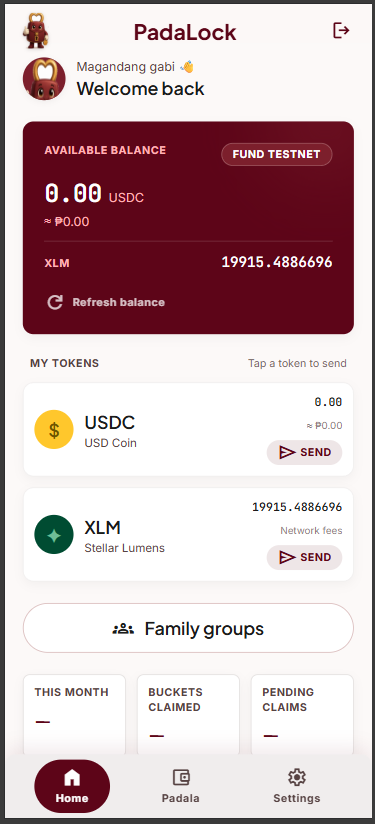
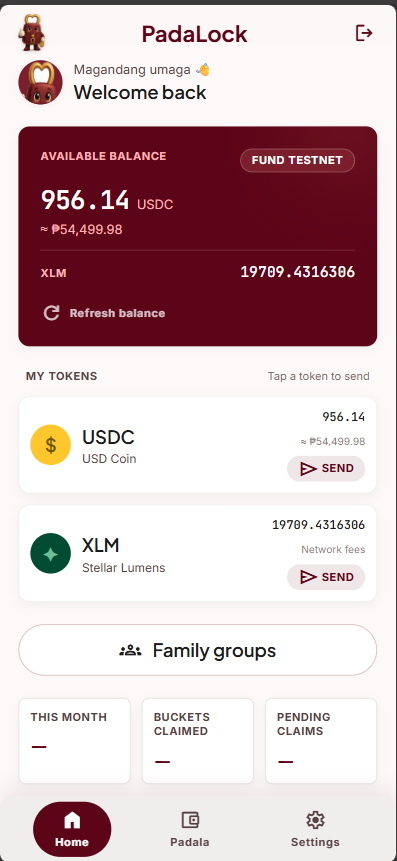
docs: add feedback and analytics proof

diff --git a/packages/feedback-graph/src/cluster.ts b/packages/feedback-graph/src/cluster.ts
@@ -63,6 +63,16 @@ function clusterRows(rows: FeedbackRow[], threshold: number): Cluster[] {
   return clusters;
 }
 
+function fallbackLabel(samples: string[]): string {
+  const text = samples.join(' ').toLowerCase();
+  if (/xlm|peso|conversion|stablecoin/.test(text)) return 'Currency Display';
+  if (/popup|success|successful|effect/.test(text)) return 'Success Feedback';
+  if (/claim|receiver|track/.test(text)) return 'Claim Experience';
+  if (/easy|helpful|navigate|flow|quality|use/.test(text)) return 'Ease Of Use';
+  if (/saving|game|add/.test(text)) return 'Feature Requests';
+  return 'General Feedback';
+}
+
 /** Ask Gemini for a short human label given sample messages in a cluster. */
 async function labelCluster(samples: string[]): Promise<string> {
   const prompt =
@@ -70,8 +80,12 @@ async function labelCluster(samples: string[]): Promise<string> {
     `Reply with a SHORT label of 2-4 words, no punctuation, Title Case. ` +
     `Messages:\n` +
     samples.map((s) => `- ${s}`).join('\n');
-  const raw = await generate(prompt);
-  return raw.split('\n')[0].replace(/[."]/g, '').slice(0, 40) || 'Misc';
+  try {
+    const raw = await generate(prompt);
+    return raw.split('\n')[0].replace(/[."]/g, '').slice(0, 40) || fallbackLabel(samples);
+  } catch {
+    return fallbackLabel(samples);
+  }
 }
 
 /** Cluster all stored feedback and produce labelled themes + a text summary. */
@@ -143,5 +157,14 @@ async function summarize(
     `${total} total messages. ${ratingLine}Themes:\n${lines}\n\n` +
     `Write 2-3 sentences: overall sentiment, top pain points, and one ` +
     `concrete suggestion. Plain text, no markdown headers.`;
-  return generate(prompt);
+  try {
+    return await generate(prompt);
+  } catch {
+    const top = themes
+      .slice(0, 3)
+      .map((t) => `${t.label} (${t.count})`)
+      .join(', ');
+    const rating = avgRating != null ? ` Average rating is ${avgRating.toFixed(1)}/5.` : '';
+    return `Collected ${total} feedback message(s).${rating} Top themes: ${top || 'none yet'}. Users mostly praise ease of use, while next fixes should focus on clearer confirmations and currency display polish.`;
+  }
 }

diff --git a/apps/web/src/lib/feedback-graph.test.ts b/apps/web/src/lib/feedback-graph.test.ts
@@ -1,0 +1,16 @@
+import { describe, expect, it } from 'vitest';
+import { feedbackGraphIngestUrl } from './feedback-graph';
+
+describe('feedbackGraphIngestUrl', () => {
+  it('targets the Vercel API route for feedback-graph ingest', () => {
+    expect(feedbackGraphIngestUrl('https://feedback.example.com')).toBe(
+      'https://feedback.example.com/api/ingest',
+    );
+  });
+
+  it('handles trailing slashes in FEEDBACK_GRAPH_URL', () => {
+    expect(feedbackGraphIngestUrl('https://feedback.example.com///')).toBe(
+      'https://feedback.example.com/api/ingest',
+    );
+  });
+});

diff --git a/apps/web/src/app/api/feedback/route.ts b/apps/web/src/app/api/feedback/route.ts
@@ -1,4 +1,5 @@
 import { NextResponse } from "next/server";
+import { feedbackGraphIngestUrl } from "@/lib/feedback-graph";
 
 /**
  * Collects basic user feedback for the Level 4 submission.
@@ -85,7 +86,7 @@ export async function POST(req: Request) {
   const graphUrl = process.env.FEEDBACK_GRAPH_URL;
   if (graphUrl) {
     try {
-      await fetch(`${graphUrl.replace(/\/$/, "")}/ingest`, {
+      await fetch(feedbackGraphIngestUrl(graphUrl), {
         method: "POST",
         headers: {
           "Content-Type": "application/json",

diff --git a/packages/feedback-graph/src/register.ts b/packages/feedback-graph/src/register.ts
@@ -1,5 +1,5 @@
 /**
- * Register the /feedback and /insights slash commands with Discord.
+ * Register the /feedback, /insights, and /export slash commands with Discord.
  * Run once (and again whenever command defs change):  npm run register
  *
  * Uses guild-scoped registration when DISCORD_GUILD_ID is set (updates

diff --git a/apps/web/src/lib/feedback-graph.ts b/apps/web/src/lib/feedback-graph.ts
@@ -1,0 +1,4 @@
+export function feedbackGraphIngestUrl(baseUrl: string): string {
+  const clean = baseUrl.trim().replace(/\/+$/, '');
+  return `${clean}/api/ingest`;
+}

diff --git a/README.md b/README.md
@@ -16,7 +16,7 @@
 
 **[🚀 Live demo](https://padalock.vercel.app)** · **[🎬 Demo video](./docs/demo-video/padalock-demo.mp4)** · **[🔎 Contract on Stellar Expert](https://stellar.expert/explorer/testnet/contract/CB62IOP52GFYM7FFKHFVJLINQJJBHFWIVFGACGZ3MSMPELSTBG7RF5YE)**
 
-<sub>StellarX Philippines · Track 1 — Remittance & Cross-Border · Risein Orange Belt (Level 3)</sub>
+<sub>StellarX Philippines - Track 1 - Remittance & Cross-Border</sub>
 
 </div>
 
@@ -58,7 +58,6 @@
 [Testing & CI](#-testing--ci) ·
 [Deployment](#-deployment) ·
 [Routes](#-routes) ·
-[Compliance](#-risein-compliance) ·
 [Roadmap](#-mainnet-roadmap)
 
 ---
@@ -109,7 +108,19 @@ Filipino OFWs send **~$36B/yr** home. The recurring pain: the sender has **no co
 
 | CI/CD — all checks passing | Contract & tx history (Stellar Expert) |
 |:---:|:---:|
-| <img src="./docs/screenshots/ci-pipeline.png" alt="CI pipeline — all checks passed" width="440" /> | <img src="./docs/screenshots/stellar-contract.png" alt="PadaLock contract on Stellar Expert" width="360" /> |
+| <img src="./docs/screenshots/ci-pipeline.png" alt="CI pipeline all checks passed" width="440" /> | <img src="./docs/screenshots/contracts/USDC%20PadaLock%20contract.png" alt="USDC PadaLock contract on Stellar Expert" width="260" /> <img src="./docs/screenshots/contracts/XLM%20PadaLock%20contract.png" alt="XLM PadaLock contract on Stellar Expert" width="260" /> |
+
+### Vercel analytics proof
+
+| Live traffic and monitoring |
+|:---:|
+| <img src="./docs/screenshots/vercel-analytics/padalock-analytics.png" alt="Vercel Analytics for PadaLock" width="760" /> |
+
+### Discord feedback proof
+
+| Feedback collection, `/insights` summary, and CSV export |
+|:---:|
+| <img src="./docs/screenshots/discord-feedback-proof.png" alt="Discord feedback collection, summary, and CSV export proof" width="760" /> |
 
 ### ✅ Tests
 
@@ -162,6 +173,7 @@ Filipino OFWs send **~$36B/yr** home. The recurring pain: the sender has **no co
 - **🪙 Dashboard asset switcher** — headline your balance in USDC or XLM; the choice is remembered.
 - **🔗 Deep-link + QR claim share** — send-success shows a shareable claim link, QR, and native Share sheet for low-tech family.
 - **👛 Hybrid wallet** — built-in self-custodial wallet (BIP-39 + Argon2 + AES-GCM) **or** external via Stellar Wallets Kit (Freighter, xBull, Albedo, Lobstr, Ledger).
+- **Discord feedback loop** - in-app feedback posts to Discord and to `@padalock/feedback-graph`; slash commands generate `/insights` summaries and private `/export` CSV files for proof and iteration.
 
 ---
 
@@ -171,6 +183,7 @@ Filipino OFWs send **~$36B/yr** home. The recurring pain: the sender has **no co
 contracts/pada-lock/   Soroban contract (Rust)
 apps/web/              Next.js 16 self-custodial PWA (sender + receiver)
 packages/sdk/          shared TypeScript SDK (RPC, tx builders, polling)
+packages/feedback-graph/ Discord slash commands, feedback ingest, Gemini summaries, CSV export
 docs/                  deploy guide, demo script, testnet state, screenshots
 plan.md                phased build plan
 ```
@@ -183,6 +196,7 @@ plan.md                phased build plan
 - **Soroban** Rust SDK (`soroban-sdk` 25)
 - **Next.js 16** App Router · React 19 · Tailwind · PWA, mobile-first
 - **Self-custodial wallet** — BIP-39 mnemonic → Argon2id → AES-GCM
+- **Discord + Gemini feedback insights** - Discord Interactions API, Neon Postgres, Gemini embeddings/summaries, `/insights`, and CSV export
 - **npm workspaces** monorepo · typed SDK boundary · simulate-before-sign · finality polling
 
 ---
@@ -232,6 +246,12 @@ two parallel jobs: **contract** (`cargo test`) and **web** (Vitest across worksp
   | `NEXT_PUBLIC_XLM_SAC_TESTNET` | `CDLZFC3SYJYDZT7K67VZ75HPJVIEUVNIXF47ZG2FB2RMQQVU2HHGCYSC` |
   | `NEXT_PUBLIC_USDC_ISSUER_TESTNET` | `GAZ5YSMH4Z2VXLLVR7FE7RENVBSDLU5U4PCJZYHRFZSBANA765TZEUQE` |
   | `NEXT_PUBLIC_SEP24_ANCHOR_DOMAIN` | `testanchor.stellar.org` |
+  | `FEEDBACK_WEBHOOK_URL` | Discord incoming webhook for visible feedback collection |
+  | `FEEDBACK_GRAPH_URL` | `https://padalock-feedback-graph.vercel.app` |
+  | `INGEST_SECRET` | Shared secret used by the web app and feedback graph ingest API |
+
+- **Feedback graph (Vercel)** - `packages/feedback-graph`; deploys `https://padalock-feedback-graph.vercel.app` with `/api/interactions`, `/api/ingest`, `/api/health`, and `/api/export`.
+  Discord's **Interactions Endpoint URL** points to `/api/interactions`. `/feedback` logs Discord-native feedback, `/insights` clusters all stored rows into a summary + chart, and `/export` returns a private CSV file.
 
 ---
 
@@ -245,28 +265,6 @@ two parallel jobs: **contract** (`cargo test`) and **web** (Vitest across worksp
 | `/send` | OFW splits padala across buckets |
 | `/claim/[id]` | Family member claims per bucket |
 | `/padala/[id]` | Sender transparency: who claimed what, when |
-
----
-
-## 🏅 Risein compliance
-
-<details>
-<summary><strong>Orange Belt (Level 3) — Advanced contracts + production-ready dApp</strong></summary>
-
-| Requirement | Where in PadaLock |
-|---|---|
-| Advanced smart contract | `create_padala` / `claim` / `create_recurring` / `execute_due` / `cancel_recurring` / `reclaim` / `get_reputation` — escrow, multi-recipient, recurring, sender reclaim on expiry, TTL-durable storage, on-chain reputation. |
-| Inter-contract communication | Cross-contract calls to the **USDC SAC** (`transfer` / `balance`) to move escrowed funds to merchants. |
-| Event streaming & real-time updates | Contract emits an event per bucket on create/claim; SDK reads via RPC `getEvents` (`packages/sdk/src/read.ts`); `/padala/[id]` renders the live claim ledger. |
-| CI/CD pipeline | [`.github/workflows/ci.yml`](./.github/workflows/ci.yml) — `cargo test` + Vitest + `next build` on every push/PR. |
-| Contract deployment workflow | [`docs/deploy.md`](./docs/deploy.md) — build, deploy, seed merchants, capture IDs. |
-| Mobile responsive frontend | Mobile-first PWA (Tailwind), bottom nav, install prompt. |
-| Error handling & loading states | Simulation guards, `pollFinality` (never trusts `sendTransaction`), pending spinners, success/error badges. |
-| Tests (contract + frontend) | 16 `cargo test` + 20 Vitest = **36 passing**. |
-| Production architecture | npm-workspace monorepo, typed SDK boundary, env-driven config, simulate-before-sign, finality polling. |
-| Documentation & demo | This README + [`docs/`](./docs) + demo video. |
-
-</details>
 
 ---
 

diff --git a/docs/pending-todo.md b/docs/pending-todo.md
@@ -1,0 +1,71 @@
+# PadaLock — Pending TODO (Level 4)
+
+> Living checklist of what's left. Updated 2026-07-04.
+> ✅ done · ⏳ pending · 🔴 blocker for submission · 👤 needs YOU · 🤖 Claude can do
+
+---
+
+## ✅ Done (don't redo)
+- Production MVP + stable frontend/contract architecture
+- Contract redeployed (reclaim + TTL): USDC `CB62IOP5…`, XLM `CC6LNV5T…`, 16 merchants ×2
+- Contract tests 21/21; on-chain smoke test (create/claim/restricted/reputation/reclaim-gate)
+- Browser smoke test (asset switcher, new-contract wiring, create_padala sim, error states)
+- Analytics (Vercel Web Analytics + Speed Insights) wired + enabled
+- Feedback widget + `/api/feedback` → Discord webhook (verified delivering)
+- Dashboard asset switcher (USDC/XLM headline, persisted)
+- Send-padala button fix on My Padala
+- All docs updated to new contract IDs + new features
+- 15+ commits (per-file, no co-author) — repo public
+- Live demo (padalock.vercel.app), demo video, product + mobile screenshots
+
+---
+
+## ⏳ Pending — submission blockers
+
+### 🔴 G3 — 10+ wallet on-chain interaction proof  👤+🤖
+- Must be on the **NEW** contract (old padalas are on retired contract).
+- Options: seed script (QA, on-chain tx from N wallets) **or** real users.
+- Capture per wallet: pubkey + tx hash → Stellar Expert link + timestamp → `docs/users/` (local, untracked).
+- Deliverable: proof table with ≥10 distinct wallets.
+
+### 🔴 G4 — Analytics / monitoring screenshot  👤
+- Vercel Analytics still shows "Get Started" → needs **real browser visits** (curl/seed don't count).
+- Action: open padalock.vercel.app in browser (phone + laptop), click ~5 pages, disable ad-blocker, wait ~30s.
+- Then screenshot Analytics + Speed Insights dashboards → `docs/screenshots/analytics.png`.
+
+### 🔴 G5 — Feedback summary  👤→🤖
+- Real feedback now landing in Discord "Feedback Hook" channel.
+- Action: YOU paste the real responses (ratings + text) → Claude writes `docs/feedback-summary.md`
+  (# responses, avg rating, top likes, top requests, 2–3 verbatim quotes, what to change next).
+
+### 🟡 G6 — Loading / error-state polish  🤖
+- Smoke test showed error states already surface (e.g. "Unsupported address type").
+- Remaining: audit wallet-create / fund / send / claim for spinner + disabled-on-submit + retry.
+
+### 🟡 G7 — Submission packaging  🤖
+- Create `docs/level-4-submission.md` with every checklist item + links:
+  repo · README · commit count · live demo · contract addresses (+Expert) ·
+  screenshots (UI, mobile, analytics) · demo video · 10-wallet proof · feedback summary.
+
+---
+
+## 👤 Manual tasks (only you can do)
+- [ ] Delete Claude's **test messages** from Discord "Feedback Hook" channel (5 total: 3 setup + 2 retests) so summary is clean.
+- [ ] Generate real browser traffic for G4 analytics.
+- [ ] Recruit/collect the 10 wallet interactions (or approve the seed script).
+- [ ] Paste real Discord feedback for G5.
+
+---
+
+## 🧊 Deferred / optional (not required for Level 4)
+- **Contract Option A — per-padala token**: unify USDC+XLM into one multi-asset contract (kills two-instance split + `?asset=` fragility). Skipped for now; two-instance setup works.
+- **Reclaim live demo**: `reclaim` visible card only appears after 30-day expiry — can't demo live; unit-tested + on-chain gate (#15) verified.
+- Sentry / richer error monitoring (Vercel logs + client `track('client_error')` is the lightweight baseline).
+
+---
+
+## Quick reference
+- Live: https://padalock.vercel.app
+- Contracts: USDC `CB62IOP52GFYM7FFKHFVJLINQJJBHFWIVFGACGZ3MSMPELSTBG7RF5YE` · XLM `CC6LNV5T6PIKMUJGWUHSE3ZEDU4YTKNQCRUGQHZXS422ALV4PVTM4KVM`
+- Live IDs + ops: `docs/testnet-state.md`
+- Full Level 4 plan: `docs/level-4-plan.md`

diff --git a/docs/screenshots/README.md b/docs/screenshots/README.md
@@ -9,7 +9,10 @@ root `README.md` references resolve:
 | `tests-vitest.png` | Frontend + SDK — `vitest`, 18 passed | ✅ added |
 | `mobile-responsive.png` | Mobile-responsive UI | ⬜ Open live site → Chrome DevTools device toolbar (`Ctrl+Shift+M`, iPhone) → `Win+Shift+S` → save here. |
 | `ci-pipeline.png` | CI/CD pipeline (both jobs green) | ⬜ GitHub → Actions → latest **CI** run → snip the two green jobs → save here. |
-| `stellar-contract.png` | Contract + tx history on Stellar Expert | ⬜ Open the [contract page](https://stellar.expert/explorer/testnet/contract/CB62IOP52GFYM7FFKHFVJLINQJJBHFWIVFGACGZ3MSMPELSTBG7RF5YE) → snip summary + history → save here. |
+| `contracts/USDC PadaLock contract.png` | Current USDC PadaLock contract on Stellar Expert | Added. Shows `CB62...TBG7RF5YE`. |
+| `contracts/XLM PadaLock contract.png` | Current XLM PadaLock contract on Stellar Expert | Added. Shows `CC6...LV4PVTM4KVM`. |
+| `vercel-analytics/padalock-analytics.png` | Vercel Analytics live traffic proof | Added. Shows Vercel Analytics activity for the deployed app. |
+| `discord-feedback-proof.png` | Discord feedback channel + `/insights` summary + CSV export proof | Composite added from `docs/screenshots/discord-feedback/`; replace with a final single screenshot if needed. |
 
 ⬜ items 404 in the root README until the PNG is dropped in with the exact filename.
 

diff --git a/packages/feedback-graph/README.md b/packages/feedback-graph/README.md
@@ -36,7 +36,7 @@ Discord  ──/insights──►  server.ts ──► cluster.ts ──► them
 3. Register commands: `npm run register --workspace=@padalock/feedback-graph`
 4. Start server: `npm run dev --workspace=@padalock/feedback-graph`
 5. Expose it publicly (e.g. `ngrok http 3005`) and paste
-   `https://<public-url>/interactions` into the app's **Interactions Endpoint
+   `https://<public-url>/api/interactions` into the app's **Interactions Endpoint
    URL** in the Developer Portal. Discord sends a PING to verify — the server
    answers PONG automatically.
 
@@ -44,7 +44,7 @@ Discord  ──/insights──►  server.ts ──► cluster.ts ──► them
 
 - **Deferred response:** `/insights` acks immediately, then edits the message
   once clustering + chart are ready (Discord's 3s limit).
-- **Storage:** local sqlite at `data/feedback.db` (git-ignored).
+- **Storage:** Postgres via `DATABASE_URL` or `POSTGRES_URL`.
 - **Chart:** rendered by QuickChart via an embed image URL — zero local render
   deps. Swap `chart.ts` for `@napi-rs/canvas` if you want fully self-hosted.
 - Embeddings are cached at write time, so `/insights` never re-embeds.
